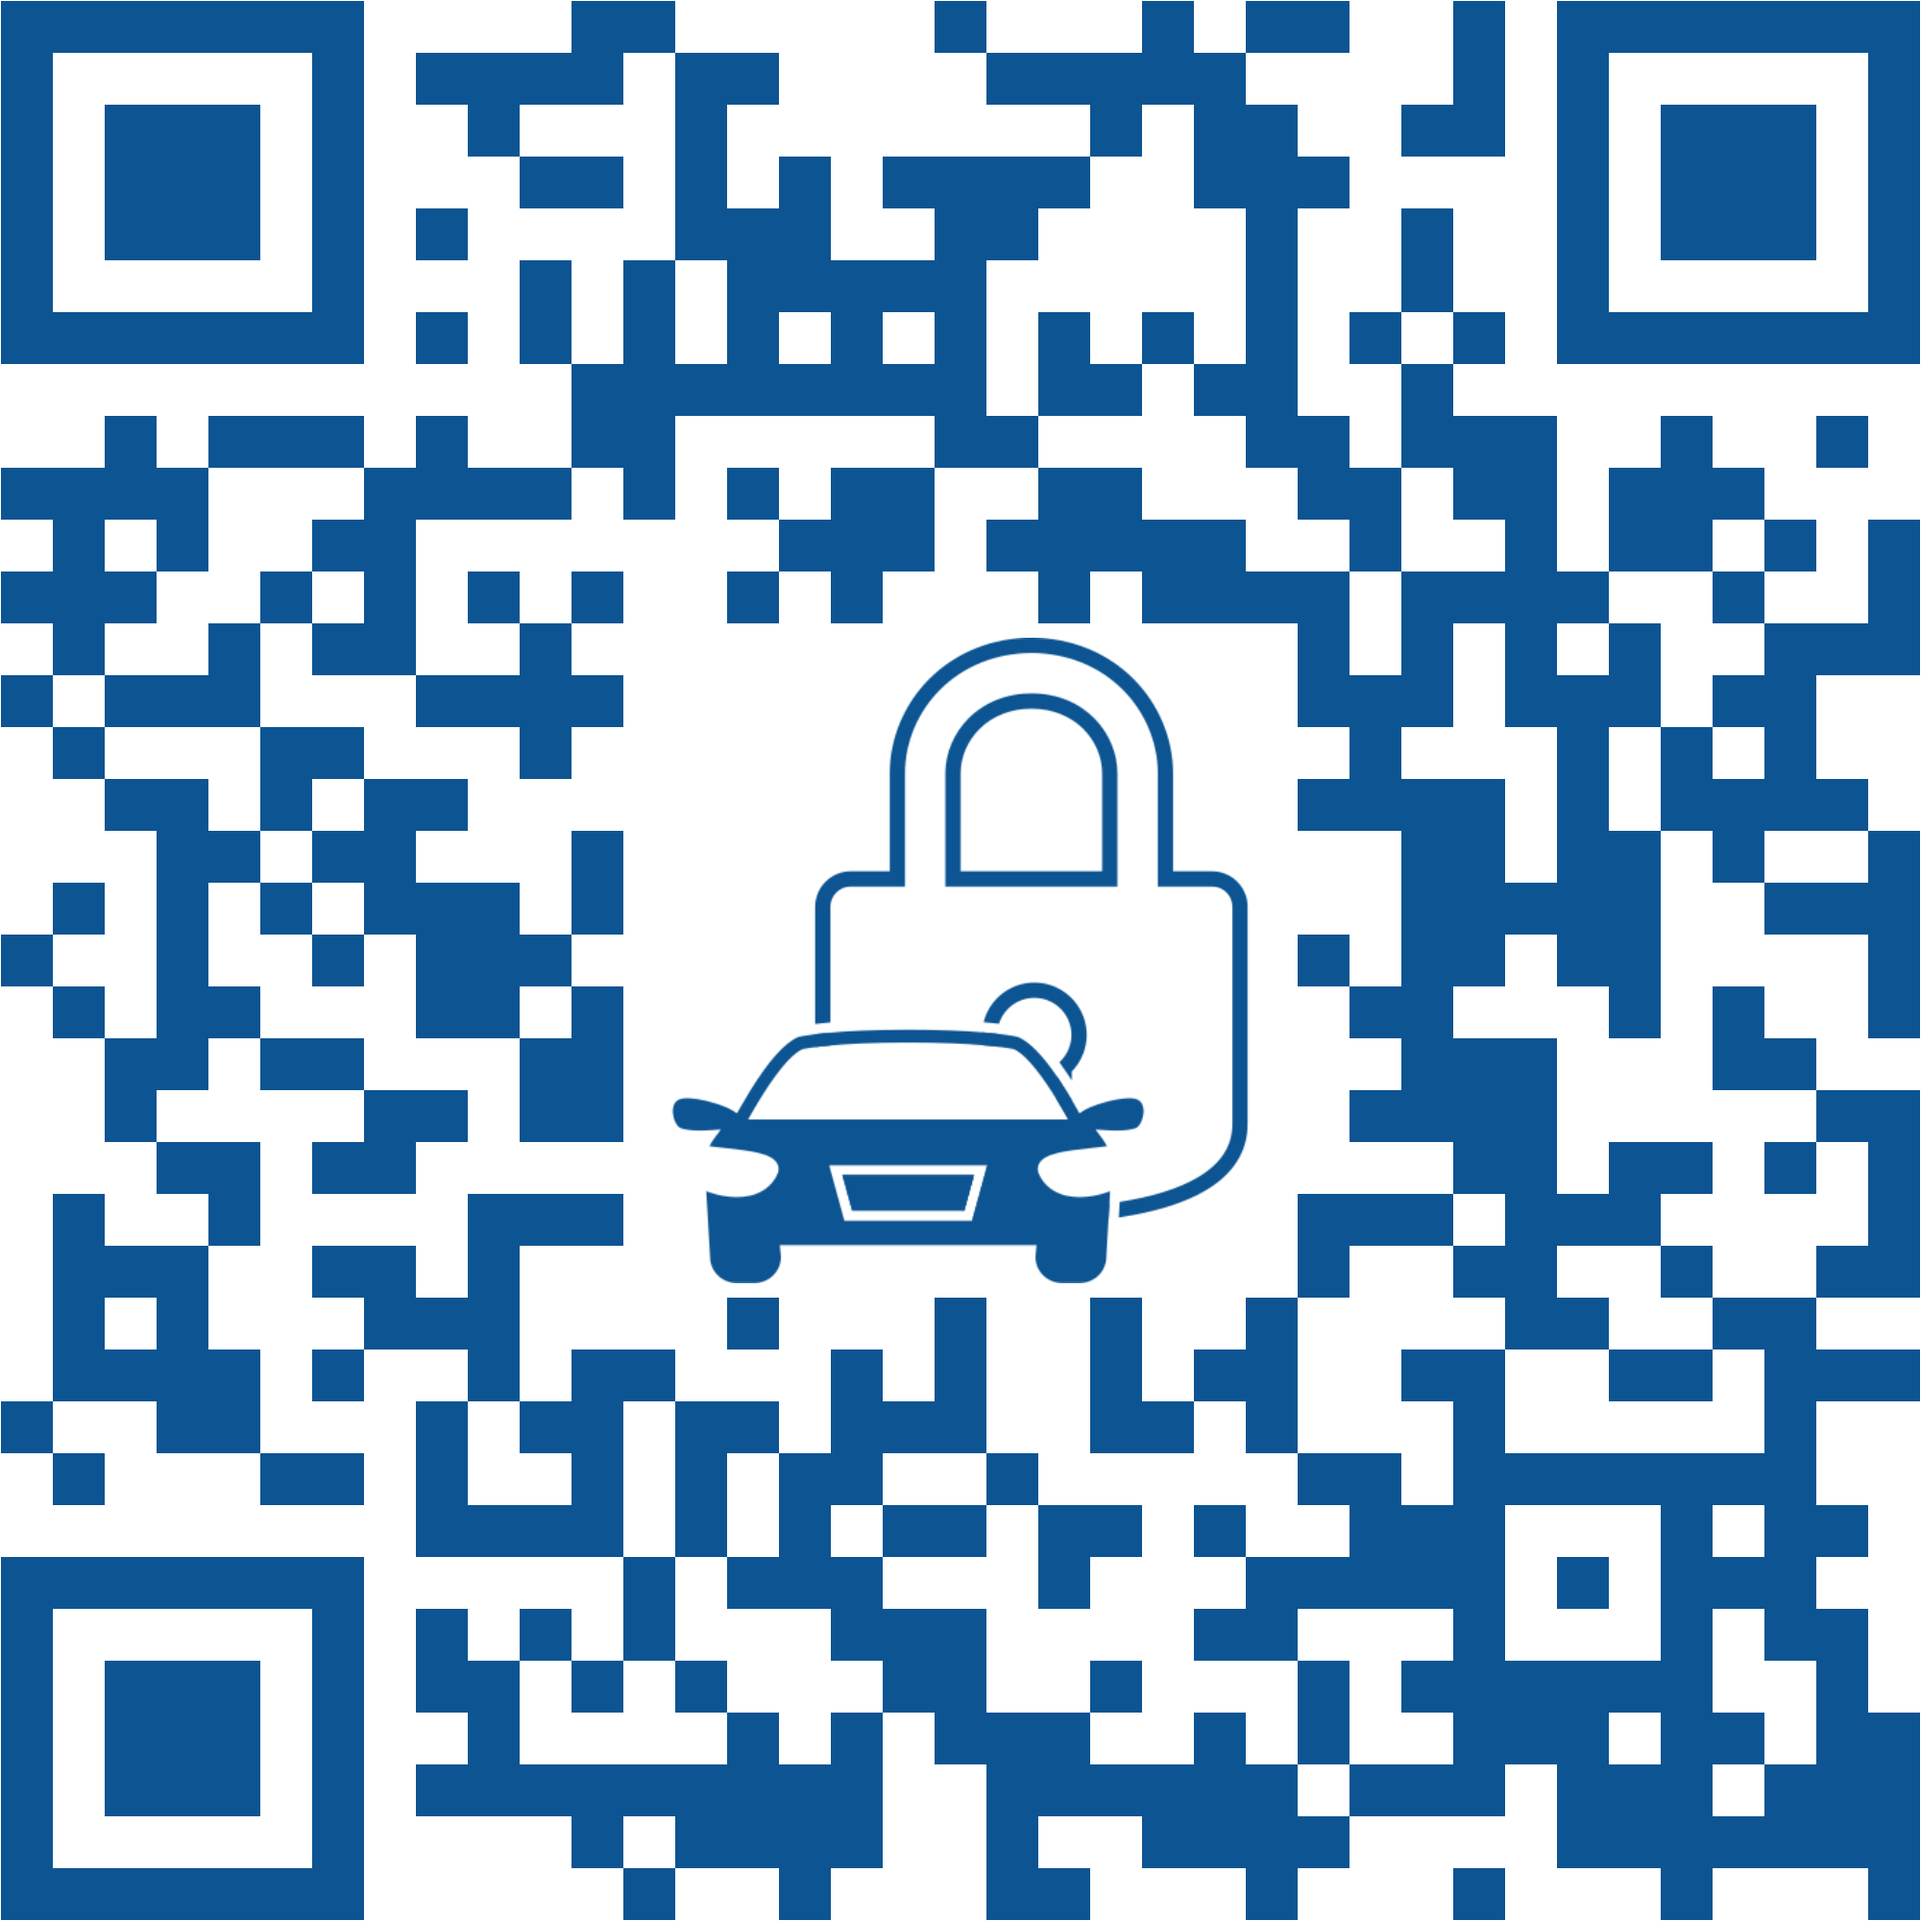
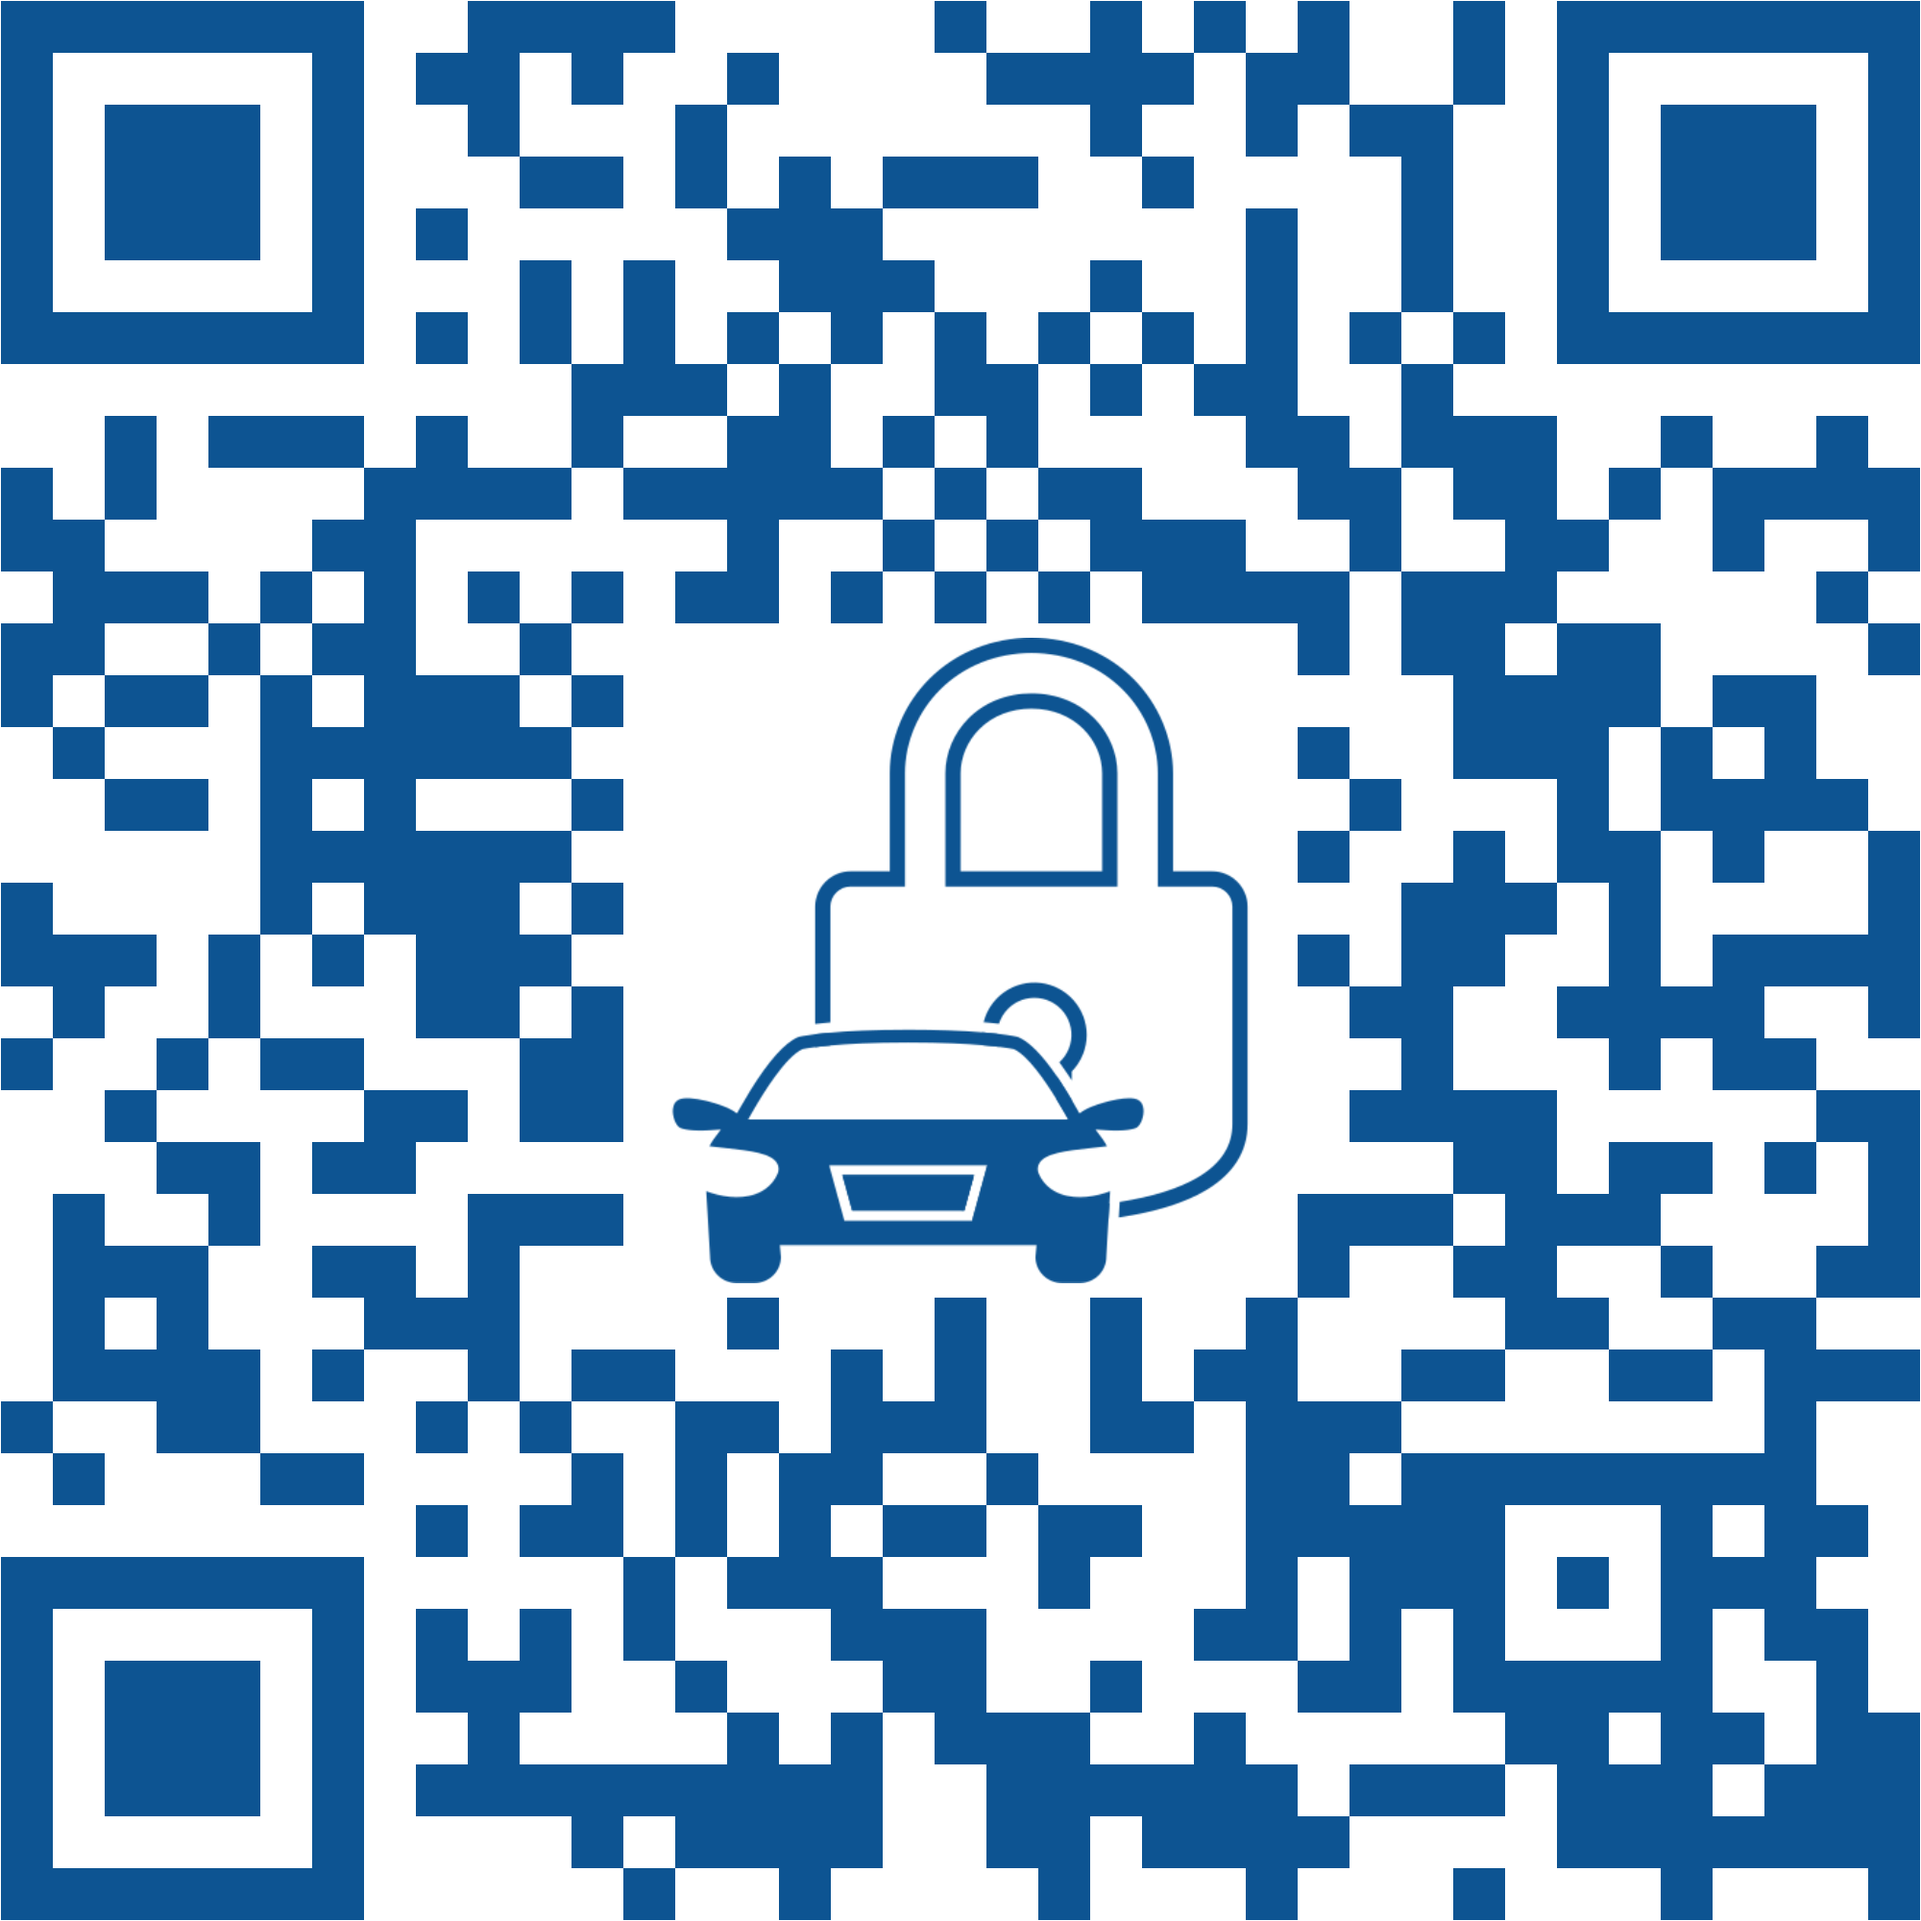
feat: guest qr codes

diff --git a/README.md b/README.md
@@ -3,7 +3,7 @@
 </div>
 
 <div align="center">
-  <img src="https://raw.githubusercontent.com/MrRevillod/SmartParking/main/Dise%C3%B1o/logo-transparency-white-bg.png" alt="Descripción de la imagen" width="250">
+  <img src="./Backend/public/images/logo-white.png" alt="Descripción de la imagen" width="200">
 </div>
 
 <div align="center" style="margin: 2rem;">
@@ -42,4 +42,4 @@ Un rest endpoint es una URL que identifica un recurso. Cuando se accede a un res
 
 Para el acceso y salida de invitados se ha implementado un sistema de códigos QR, los cuales están presentes en las entradas y salidas de los estacionamientos y redirigen a un sistema embedido para registrar una entrada o salida del recinto. 
 
-<img src="./Backend/public/images/qrs.png" alt="Descripción de la imagen" >
+<img src="./Backend/public/images/Qrs.png" alt="Descripción de la imagen" width="800">
